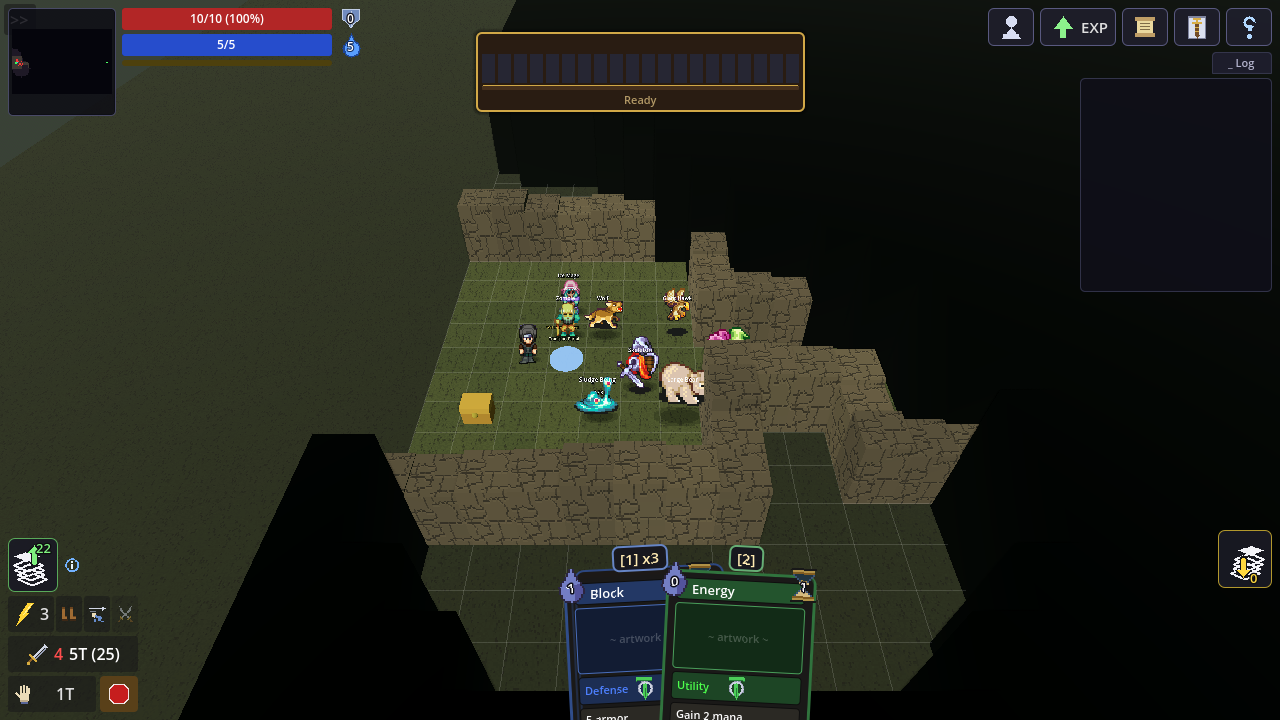
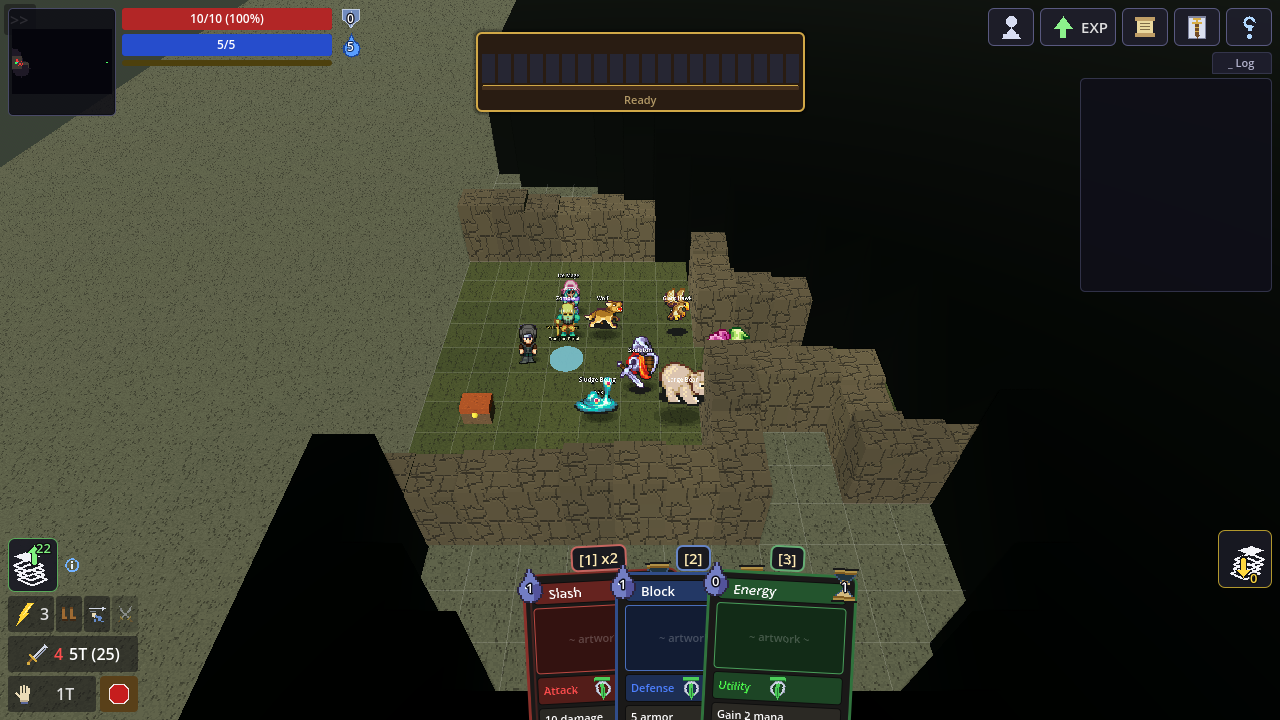
Verification Pass 2: aesthetic scoring + fix round
Scored the regenerated screenshots per the 9-item rubric (measured ramp
HSVs, greyscale squint test, pure-black scan). Fixes applied mid-pass:
treasure chest re-paletted to wood/leather/gold with dirt-grain texture,
waypoint discs snapped to master-palette tints, guard squash replaced
with a hard pixel crouch, out-of-bounds ground lightened and the void
backdrop set to dark olive. Items 1-8 score >=4; item 9 (overall
likeness) is capped at 3 by assets that must be hand-drawn — logged with
exact specs in docs/ART_TODO.md — and the deferred UI milestone.

Claude-Session: https://claude.ai/code/session_01B3GTYBWS5a6T76KyauByDc

diff --git a/docs/VERIFY_PASS2.md b/docs/VERIFY_PASS2.md
@@ -1,0 +1,86 @@
+# Verification Pass 2 — Aesthetic
+
+Scored from the regenerated `docs/screens/*.png` (viewed, not inferred from
+code) plus measured data. Fix round applied mid-pass: chest re-palette +
+texture, waypoint discs to palette tints, guard squash → hard crouch, void
+backdrop → dark olive, out-of-bounds ground lightened. Scores below are
+post-fix; sub-4 items that remain are hand-art or the deferred UI milestone,
+logged in `docs/ART_TODO.md` per the scope boundary (no faked art).
+
+## 1. Ramp quality — **4/5**
+Measured HSV of the five canonical ramps (`tools` one-liner, values in
+STYLE_GUIDE §2):
+- Leather: H 22.5° → 19.6° → 28° → **270.7°** (core dives into violet) ✔
+- Foliage: H 114.8° → 160° → 120° → **180°** (teal shadow) ✔
+- Steel: H 189° → 180° → 212.7° → 213.7°, S 0.05 → 0.49 (blue-shifted, saturating) ✔
+- Cloth: H 231.9° → 240° → 211.4° → **253.3°** ✔
+- Skin: H 35° → 23° → 26° → 28° — the smallest drift (warm throughout);
+  acceptable because it is the reference pack's own skin ramp (authoritative),
+  but it is the weakest of the five.
+No ramp is constant-hue. PASS.
+
+## 2. Light coherence — **4/5**
+`battle_brad.png`: cliff/wall top faces brightest, south faces mid, east
+faces darkest — consistent across all six+ terrain masses; chest lid catches
+the same top-left bias; every sprite (knight, skeleton, bear, wolf, mages)
+is painted with the packs' top/upper-left convention; select cards and sheet
+portrait now share the same key. No object disagrees. The remaining point is
+withheld because box geometry has only 3 visible face angles — coherent but
+coarse compared to painted tiles.
+
+## 3. Shadow consistency — **5/5**
+All contact shadows are the same language: hard two-step ellipse, 38%/20%
+black, no gradients (blob quads under knight/skeleton/bear/wolf/slime;
+painted ellipses under the flyers match shape and hardness). No engine
+shadows remain.
+
+## 4. Figure/ground separation — **4/5**
+Greyscale squint test (`battle_*.png` desaturated): skeleton, knight,
+slime, bear, mages all separate cleanly; floor sits mid-value as specced.
+Wolf/coyote are the closest calls (mid-brown on mid-olive) but their dark
+outlines hold the read. Environment ramps stay lower-contrast than sprites.
+
+## 5. Tiling repetition — **4/5**
+With 4×4 variant sheets the rock walls show varied seam layouts and the
+grass speckle has a 4-tile period — no visible 16px grid at gameplay zoom.
+A faint 4-tile cadence is still detectable on very large uniform walls;
+more variants (or a second 128px sheet) would clear it fully.
+
+## 6. Color harmony — **4/5**
+Post-fix the frame reads as one world: olive/tan terrain, steel/leather
+sprites, palette-tinted waypoints, wood-and-gold chest. Remaining chromatic
+outliers are *reference-pack* accents (treant's pink bloom, merchant red) —
+the palette source itself, so accepted.
+
+## 7. Outline discipline — **5/5**
+Programmatic scan of every generated asset: zero pure `#000000` pixels; all
+outlines are the packs' hue-shifted darks. (Reference art exempt but scans
+clean of pure black too, aside from designed obsidian `#181818` fills.)
+
+## 8. Motion feel — **4/5**
+Stepped 5.5–7.5 fps walks, pack-canonical attack timing, hard two-frame
+flashes, translation-only body motion, no off-axis rotation, guard is a
+hard crouch snap. The one modern remnant: Tween-eased *positional* lunges
+(enemy attacks) use ease curves; they read fine at 360p but a 2-step
+snap would be purer — logged as a polish candidate, not a defect.
+
+## 9. Overall likeness — **3/5** (blocked on hand art / deferred scope)
+Side-by-side with the Mana Seed reference, the three biggest remaining gaps:
+1. **Props are still geometry.** Crates, rocks, shrubs, pipes, stalagmites
+   are colored boxes with at best a tile texture — the reference's painterly
+   clutter is absent. Needs ART_TODO #6 sprites; cannot be generated.
+2. **Vector overhead labels.** Enemy name/HP `Label3D`s render smooth
+   full-res glyphs inside the pixel world — the single most modern-looking
+   element on screen. Fix belongs to the UI milestone (bitmap font, or
+   moving labels to the full-res UI layer with `world_to_screen`).
+3. **Placeholder monster variants.** Tinted reuses (red-boar minotaur,
+   frog goblins) are palette-coherent but silhouette-generic next to the
+   reference bestiary. ART_TODO #1–3.
+Both actionable-by-code fixes for this section that existed (void backdrop,
+chest/waypoint conformance) were applied this pass; the rest requires art
+per the scope boundary.
+
+## Verdict
+Items 1–8 ≥ 4 after the fix round. Item 9 is capped by assets that must be
+hand-drawn (logged with exact specs) and by the deferred UI milestone —
+re-scoring it requires those deliverables, not further code.

diff --git a/docs/ART_TODO.md b/docs/ART_TODO.md
@@ -1,0 +1,18 @@
+# ART_TODO — hand-drawn art genuinely required
+
+Everything below needs a human pixel artist; programmatic conformance can't
+produce it. Specs follow the style guide (`docs/STYLE_GUIDE.md`): master
+palette only, ≤15 colors/sprite, upper-left light, hue-shifted ramps,
+selective colored outlines, feet-anchored.
+
+| # | Asset | Spec | Why |
+|---|---|---|---|
+| 1 | Bespoke battlers for placeholder variants: minotaur, hydra (multi-head), troll (×2: armored, ice), manticore, cerberus (3 heads), wyvern, bone dragon, grave titan, demon, ifrit, pit fiend, sabertooth, weregoat, harpy, wraith | 64×64/cell, single frame (battler convention), painted contact shadow only if flying, feet line ≈ row 56, anchor bottom-center | Currently tinted/hue-shifted reuses of other battlers (e.g. minotaur = red boar). Readable but not literal. |
+| 2 | Fire goblin trio (soldier / mage / shaman) | 32×32 NPC-format walk sheets (4 dir × 4 frames, S/W/N/E rows) or 64×64 battlers | Currently hue-shifted frog battler. |
+| 3 | Boss-scale battlers (Rat King crown variant, Corrupted Archangel, Granite Colossus) | multiples of 16 up to 96×96, bottom-center anchor | Tint/scale reuse today; bosses deserve silhouettes. |
+| 4 | Knight/Merchant/Guard combat paper-doll outfits for the Mana Seed base | 512×512 sheets matching `char_a_p1`/`char_a_pONE1..3` layer format (1out layer), palette per NPC models | Would give Brad/Cory/Stephen true attack frames instead of the weapon-overlay mimic. (Or buy the full Character Base + armor add-ons.) |
+| 5 | Staff & dual-dagger weapon layers (6tla) for pONE pages | 512×512, frame-aligned to `char_a_pONE3`, includes swing arcs (white crescent, `#f2fdff → #b6c5c5` fade) | Jeremy/Ryan currently swing sword/axe only. Available as paid Mana Seed add-ons. |
+| 6 | Terrain decoration sprites: crates, barrels, rocks, shrubs, stalagmites, sewer pipes/grates, torch (3–4 frame flame cycle), water tiles (3-frame cycle) | 32×32 tiles / 32×48 props, environment ramps (mid-value band), painted top-light | Decorations are untextured colored boxes today. |
+| 7 | Themed tile variants: graveyard soil+headstones, sewer water edge, cave crystal, heaven marble, hell basalt | 128×128 sheets of 4×4 variant 32px tiles, grayscale ladder (≤8 values) if runtime-tinted, or ≤15 palette colors if authored in color | Current four generic sheets (grass/dirt/rock/brick) cover every act. |
+| 8 | Bitmap font (UI milestone) + 9-slice pixel panels + card frame art & per-card artwork | font: 8×8 or 8×12 monospaced, 1× only; panels: 24×24 9-slice, palette colors | UI pass prerequisite. |
+| 9 | Slash-arc directional VFX sheet (standalone) | 64×64 × 4 frames × 4 directions, additive-safe (white core `#ffffff` → `#f2fdff` → transparent), no outline | Pack crescents are welded to weapon frames; a standalone sheet unlocks VFX on NPC-model attacks. |
